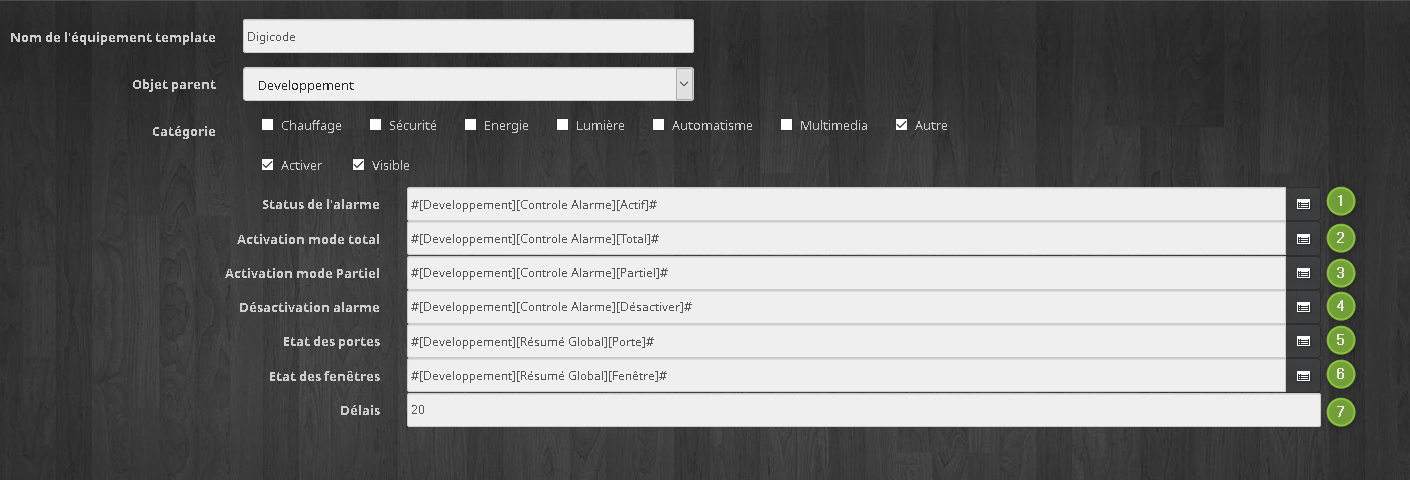
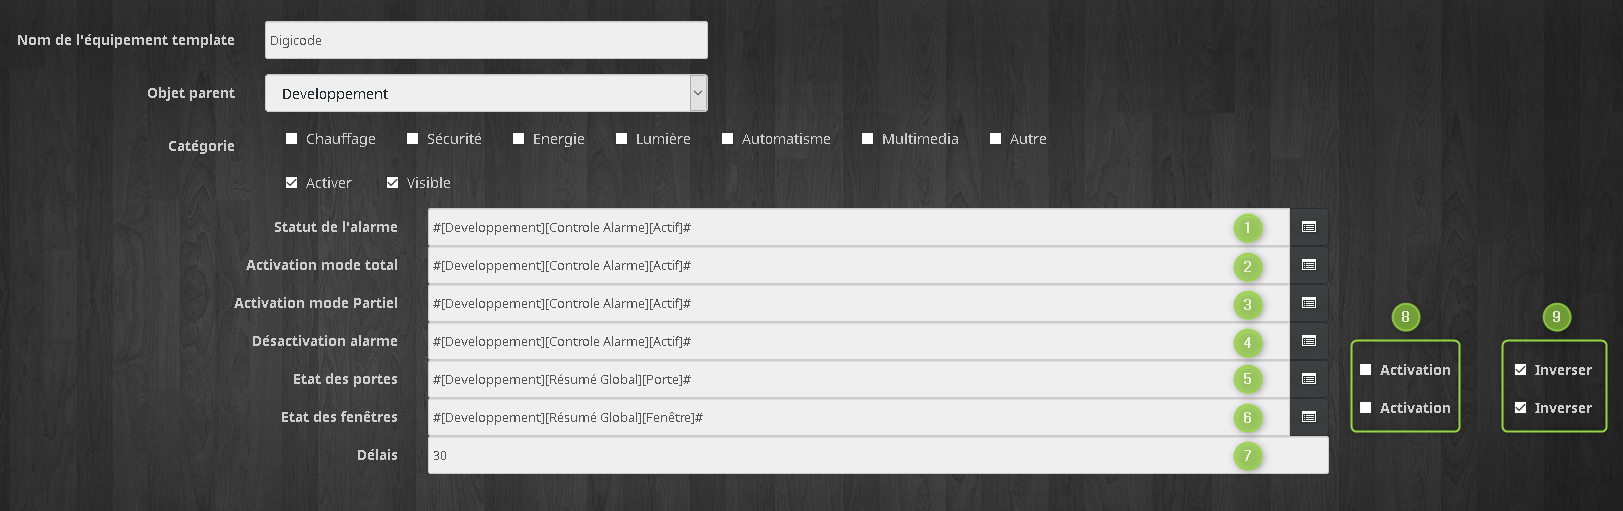
Update doc

diff --git a/docs/fr_FR/index.md b/docs/fr_FR/index.md
@@ -21,8 +21,7 @@ Pour utiliser ce plugin il faut disposer des commandes suivantes :
 - Etat de l'alarme de l'alarme
 - Activation Totale de l'alarme
 - Activation Partielle
-- Etat des portes
-- Etat des fenêtres
+- Désactivation de l'alarme
 
 Configuration
 ===
@@ -47,9 +46,13 @@ Il faut ensuite donner les informations de votre alarme.
 - 4 : La commande qui déactive l'alarme
 - 5 et 6 : Les commandes qui fournie le statut des ouvrants (virtuel généré par le résumé domotique)
 - 7 : Délais d'activation
+- 8 : Activation de l'état des ouvrants
+- 9 : Inversion de l'état des ouvrants
 
 ### Création des utilisateurs
 La création, la modification et la suppression des utilisateurs se fait directement depuis le widget en cliquant sur la roue crantée qui se situe en bas à droite.
+Le code utilisateur est basé sur 4 chiffres
+Le code maitre est basé sur 5 chiffres.
 
 ![configuration](../images/configuration.png)
 
@@ -59,7 +62,35 @@ Après avoir cliqué sur l'icone, une fenêtre s'ouvre et permet la gestion des 
 
 ![utilisateurs](../images/utilisateurs.png)
 
+### Utilisation du widget
+
+Le widget comporte plusieurs éléments :
+![utilisateurs](../images/widget2.png)
+
+- 1 : Etat des ouvrants
+- 2 : Message
+- 3 : Etat de l'alarme
+- 4 : Compte à rebours
+- 5 : Panneau pour la création des codes
+- 6 : Effacement des chiffres rentrés
+- 7 : Mode de l'Alarme
+- 8 : Nombre de chiffre rentré
+
+Pour activer ou désactiver l'alarme, il suffit de taper un code utilisateur (4 chiffres) + la lettre correspondante au mode d'alarme (P : mode partiel, T : mode totale, D : mode désactivé)
+Pour activer ou désactiver le code maitre, il suffit de taper un code maitre (5 chiffres)
+
 Changelog
 ===
-### Version 1.0 (version market 2018-09-09 10:10:00)
-- Version initiale
+### Version 1.0 (version market 2018-08-19 22:01:25)
+- Verion initiale
+
+### Version 1.1 (version market 2018-10-07 22:01:25)
+- Ajout transparence sur design
+- Ajout code maitre pour vérouiller la configuration du widget
+- Ajout possibilité d'inverser l'état des ouvrants
+
+### Version 1.2 (version market )
+- Ajout d'une fonction permettant d'activer/désactiver le test des ouvrants
+- Correction du comportement du widget (bug zoom)
+- Ajout d'une fonction permettant d'actualiser le widget lors de l'activation de l'alarme hors plugin
+- Amélioration de l'assistant de création des codes (code vide rejeté)
